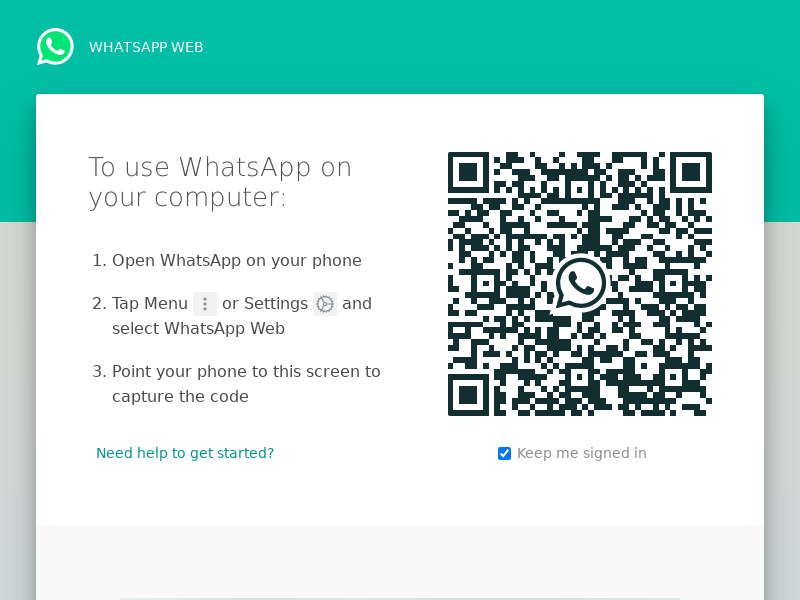
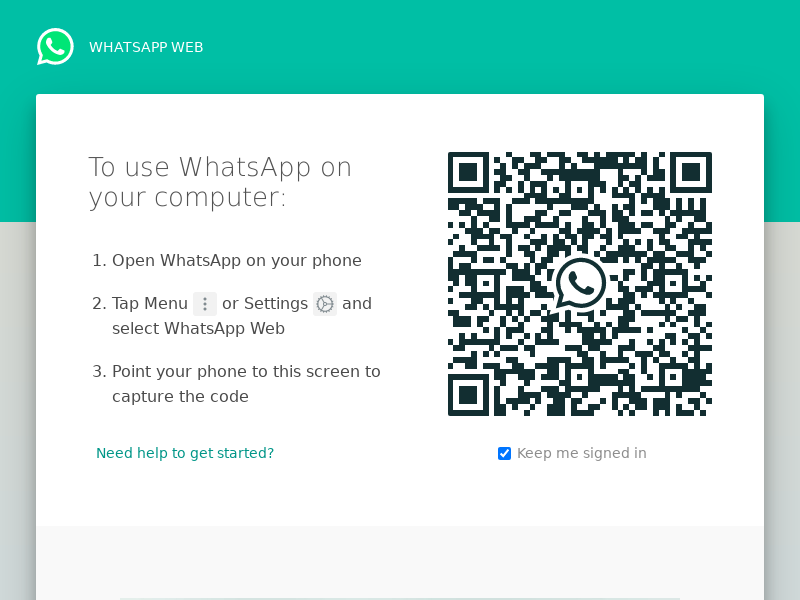
⭐🏕 Checkpoint ./example.js:23794624/98

Changed region(s): [[0.5625, 0.24, 0.9062, 0.72], [0.875, 0.63, 0.9062, 0.66]]

diff --git a/example.js b/example.js
@@ -54,6 +54,10 @@ client.initialize();
 client.on('change_state',(reason)=>{
   console.log(reason);
   io.emit('client', reason);
+  if(reason === 'UNPAIRED'){
+    client.destroy();
+    client.initialize();
+  }
 });
 client.on('disconnected', (reason) => {
   console.log(reason);
